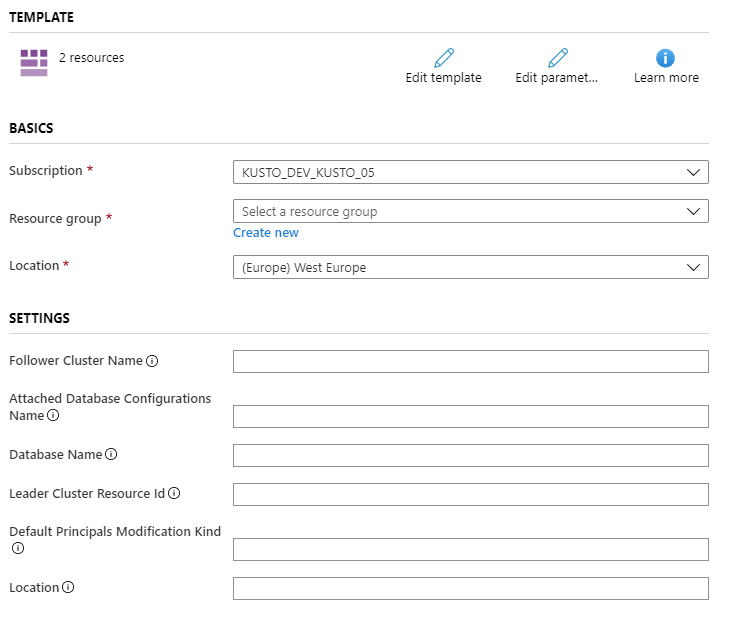
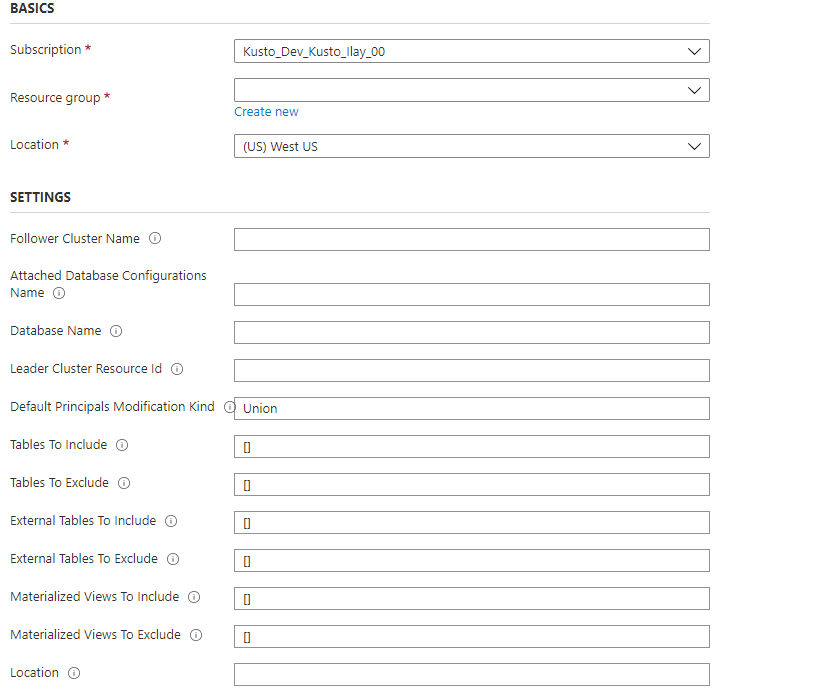
Add table level sharing to the docs

diff --git a/data-explorer/follower.md b/data-explorer/follower.md
@@ -25,8 +25,9 @@ Attaching a database to a different cluster using the follower capability is use
 ## Prerequisites
 
 1. If you don't have an Azure subscription, [create a free account](https://azure.microsoft.com/free/) before you begin.
-1. [Create cluster and DB](create-cluster-database-portal.md) for the leader and follower.
-1. [Ingest data](ingest-sample-data.md) to leader database using one of various methods discussed in [ingestion overview](./ingest-data-overview.md).
+2. [Create cluster and DB](create-cluster-database-portal.md) for the leader.
+3. [Create cluster](create-cluster-database-portal.md) for the follower.
+4. [Ingest data](ingest-sample-data.md) to leader database using one of various methods discussed in [ingestion overview](./ingest-data-overview.md).
 
 ## Attach a database
 
@@ -65,13 +66,26 @@ var attachedDatabaseConfigurationName = "uniqueNameForAttachedDatabaseConfigurat
 var databaseName = "db"; // Can be specific database name or * for all databases
 var defaultPrincipalsModificationKind = "Union"; 
 var location = "North Central US";
+var tablesToInclude = new List<string>
+{
+    "table1",
+    "table2",
+    "table3"
+};
+var externalTablesToExclude = new List<string>
+{
+    "Logs*"
+};
+
+var tls = new TableLevelSharingProperties(tablesToInclude: tablesToInclude, externalTablesToExclude: externalTablesToExclude);
 
 AttachedDatabaseConfiguration attachedDatabaseConfigurationProperties = new AttachedDatabaseConfiguration()
 {
     ClusterResourceId = $"/subscriptions/{leaderSubscriptionId}/resourceGroups/{leaderResourceGroup}/providers/Microsoft.Kusto/Clusters/{leaderClusterName}",
     DatabaseName = databaseName,
     DefaultPrincipalsModificationKind = defaultPrincipalsModificationKind,
-    Location = location
+    Location = location,
+    TableLevelSharingProperties = tls
 };
 
 var attachedDatabaseConfigurations = resourceManagementClient.AttachedDatabaseConfigurations.CreateOrUpdate(followerResourceGroupName, followerClusterName, attachedDatabaseConfigurationName, attachedDatabaseConfigurationProperties);
@@ -120,8 +134,12 @@ database_name  = "db" # Can be specific database name or * for all databases
 default_principals_modification_kind  = "Union"
 location = "North Central US"
 cluster_resource_id = "/subscriptions/" + leader_subscription_id + "/resourceGroups/" + leader_resouce_group_name + "/providers/Microsoft.Kusto/Clusters/" + leader_cluster_name
+tables_to_include = ["table1", "table2", "table3"]
+external_tables_to_include =  ["Logs*"]
+table_level_sharing_properties = TableLevelSharingProperties(tables_to_include = tables_to_include, external_tables_to_include = external_tables_to_include)
 
-attached_database_configuration_properties = AttachedDatabaseConfiguration(cluster_resource_id = cluster_resource_id, database_name = database_name, default_principals_modification_kind = default_principals_modification_kind, location = location)
+
+attached_database_configuration_properties = AttachedDatabaseConfiguration(cluster_resource_id = cluster_resource_id, database_name = database_name, default_principals_modification_kind = default_principals_modification_kind, location = location, table_level_sharing_properties = table_level_sharing_properties)
 
 #Returns an instance of LROPoller, see https://docs.microsoft.com/python/api/msrest/msrest.polling.lropoller?view=azure-python
 poller = kusto_management_client.attached_database_configurations.create_or_update(follower_resource_group_name, follower_cluster_name, attached_database_Configuration_name, attached_database_configuration_properties)
@@ -138,6 +156,9 @@ Install : Az.Kusto
 ```
 
 #### Example
+
+[comment]: # (TODO: update Powershell with Table level sharing)
+
 
 ```Powershell
 $FollowerClustername = 'follower'
@@ -216,6 +237,48 @@ In this section, you learn to attach a database to an existing cluster by using 
                 "description": "The default principal modification kind."
             }
         },
+        "tablesToInclude": {
+            "type": "array",
+            "defaultValue": [],
+            "metadata": {
+                "description": "The list of tables to include"
+            }
+        },
+        "tablesToExclude": {
+            "type": "array",
+            "defaultValue": [],
+            "metadata": {
+                "description": "The list of tables to exclude"
+            }
+        },
+        "externalTablesToInclude": {
+            "type": "array",
+            "defaultValue": [],
+            "metadata": {
+                "description": "The list of external tables to include"
+            }
+        },
+        "externalTablesToExclude": {
+            "type": "array",
+            "defaultValue": [],
+            "metadata": {
+                "description": "The list of external tables to exclude"
+            }
+        },
+        "materializedViewsToInclude": {
+            "type": "array",
+            "defaultValue": [],
+            "metadata": {
+                "description": "The list of materialized views to include"
+            }
+        },
+        "materializedViewsToExclude": {
+            "type": "array",
+            "defaultValue": [],
+            "metadata": {
+                "description": "The list of materialized views to exclude"
+            }
+        },
         "location": {
             "type": "string",
             "defaultValue": "",
@@ -229,12 +292,21 @@ In this section, you learn to attach a database to an existing cluster by using 
         {
             "name": "[concat(parameters('followerClusterName'), '/', parameters('attachedDatabaseConfigurationsName'))]",
             "type": "Microsoft.Kusto/clusters/attachedDatabaseConfigurations",
-            "apiVersion": "2020-02-15",
+            "apiVersion": "2021-01-01",
             "location": "[parameters('location')]",
             "properties": {
                 "databaseName": "[parameters('databaseName')]",
                 "clusterResourceId": "[parameters('leaderClusterResourceId')]",
-                "defaultPrincipalsModificationKind": "[parameters('defaultPrincipalsModificationKind')]"
+                "defaultPrincipalsModificationKind": "[parameters('defaultPrincipalsModificationKind')]",
+                "tableLevelSharingProperties":{
+                    "tablesToInclude": "[parameters('tablesToInclude')]",
+                    "tablesToExclude": "[parameters('tablesToExclude')]",
+                    "externalTablesToInclude": "[parameters('externalTablesToInclude')]",
+                    "externalTablesToExclude": "[parameters('externalTablesToExclude')]",
+                    "materializedViewsToInclude": "[parameters('materializedViewsToInclude')]",
+                    "materializedViewsToExclude": "[parameters('materializedViewsToExclude')]"
+
+                }
             }
         }
     ]
@@ -254,6 +326,12 @@ You can deploy the Azure Resource Manager template by [using the Azure portal](h
 |Database Name     |      The name of the database to be followed. If you want to follow all the leader's databases, use '*'.   |
 |Leader Cluster Resource ID    |   The resource ID of the leader cluster.      |
 |Default Principals Modification Kind    |   The default principal modification kind. Can be `Union`, `Replace`, or `None`. For more information about default principal modification kind, see [principal modification kind control command](kusto/management/cluster-follower.md#alter-follower-database-principals-modification-kind).      |
+| Tables To Include | The list of tables to include, i.e. ["table1ToInclude", "table2ToInclude"] |
+| Tables To Exclude | The list of tables to exclude,  i.e. ["table1ToExclude", "table2ToExclude"]|
+| External Tables To Include | The list of tables to include,  i.e. ["ExternalTable1ToInclude", "ExternalTable2ToInclude"] |
+| External Tables To Exclude | The list of tables to exclude, i.e. ["ExternalTable1ToExclude", "ExternalTable2ToExclude"]|
+| Materialized Views To Include | The list of materialized views to include, i.e. ["Mv1ToInclude", "Mv2ToInclude"] |
+| Materialized Views To Exclude | The list of materialized views to exclude, i.e. ["Mv11ToExclude", "Mv22ToExclude"]|
 |Location   |   The location of all the resources. The leader and the follower must be in the same location.       |
 
 ---
